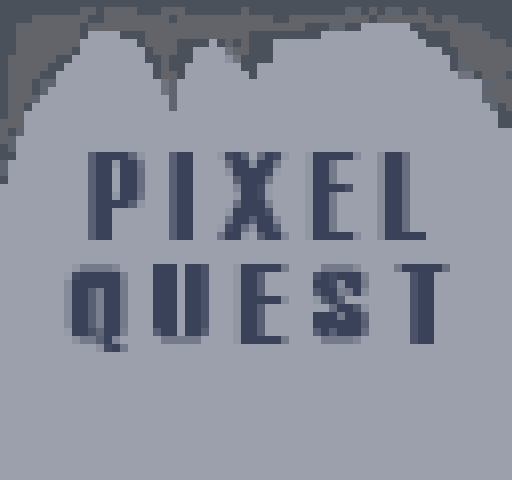
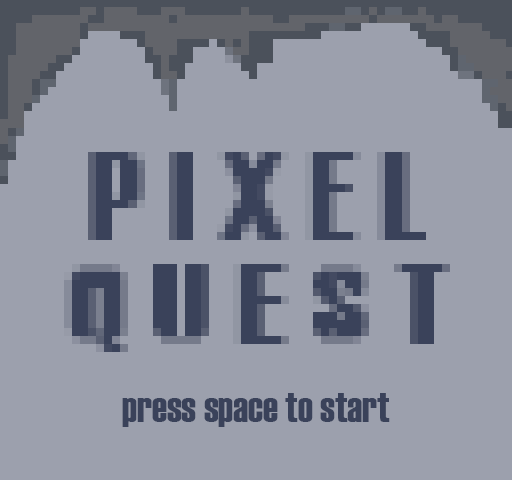
made the final platform red and improved the title screen to make it more intuitive

Changed region(s): [[0.2188, 0.8125, 0.7812, 0.9062]]

diff --git a/finalProject/finalProject.js b/finalProject/finalProject.js
@@ -1,4 +1,4 @@
-// ########### Sources ########### ... heavily modified from original code used 
+// ########### Sources ########### 
 
 // https://developer.mozilla.org/en-US/docs/Web/JavaScript/Reference/Global_Objects/Boolean
 // https://developer.mozilla.org/en-US/docs/Learn/HTML/Introduction_to_HTML/The_head_metadata_in_HTML
@@ -175,7 +175,7 @@ var platform5 = new Platform(0, 175, 20, 2, 1, "normal");
 var platform6 = new Platform(100, 100, 20, 2, 1, "normal");
 var platform7 = new Platform(300, 200, 40, 2, 1, "moving");
 var platform8 = new Platform(375, 120, 20, 2, 1, "normal");
-var finalPlatform = new Platform(460, 70, 52, 2, 1, "normal");
+var finalPlatform = new Platform(460, 70, 52, 2, 1, "final");
 // this is the platform for the ground of level 2
 var ground = new Platform(53, 455, 377, 2, 1, "normal");
 
@@ -331,6 +331,9 @@ var renderLevel1 = function () {
 		}
 		if (allPlatforms[plat].type == "moving") {
 			ctx.fillStyle = "blue";
+		}
+		if (allPlatforms[plat].type == "final") {
+			ctx.fillStyle = "red"
 		}
 		ctx.fillRect(allPlatforms[plat].x, allPlatforms[plat].y, allPlatforms[plat].w, allPlatforms[plat].h);
 	}
